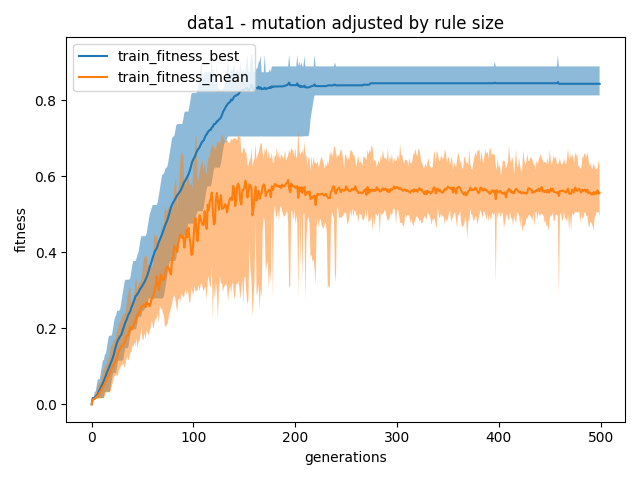
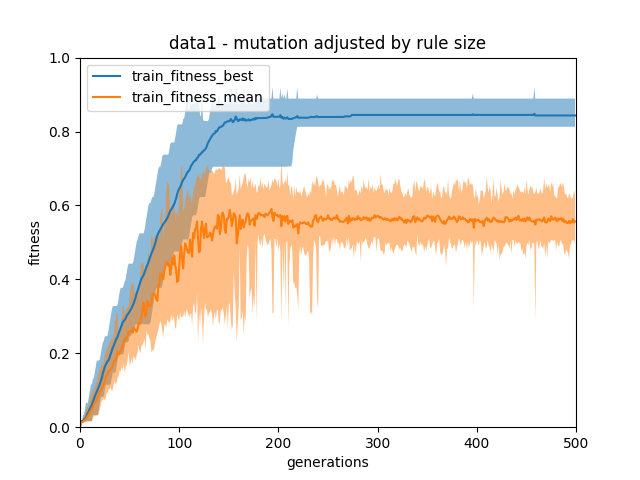
Standardise graph scales

diff --git a/biocomp/grapher.py b/biocomp/grapher.py
@@ -89,6 +89,9 @@ def plot_fitness_area(generation_count, logs, key, line_args=None, fill_args=Non
         linewidth=0,
         **fill_args,
     )
+    axes = plt.gca()
+    axes.set_ylim([0, 1])
+    axes.set_xlim([0, generation_count])
 
 
 def plot_logfile(logs, keys):
@@ -290,24 +293,18 @@ def main():
         ]),
     }
 
-    plot_logfile(experiments['dynamic_mutation'], ['train_fitness_best', 'train_fitness_mean'])
-    plt.title('data1 - mutation adjusted by rule size')
-    plt.show()
-    plot_logfile(experiments['static_mutation'], ['train_fitness_best', 'train_fitness_mean'])
-    plt.title('data1 - fixed mutation rate (0.003)')
-    plt.show()
-    plot_logfile(experiments['roulette_wheel_selection'], ['train_fitness_best', 'train_fitness_mean'])
-    plt.title('data1 - roulette wheel selection')
-    plt.show()
-    plot_logfile(experiments['boosted_mutation'], ['train_fitness_best', 'train_fitness_mean'])
-    plt.title('data1 - boosted mutation rate (0.01)')
-    plt.show()
-    plot_logfile(experiments['decreased_crossover'], ['train_fitness_best', 'train_fitness_mean'])
-    plt.title('data1 - decreased crossover rate 85% -> 50%')
-    plt.show()
-    plot_logfile(experiments['half_population_size'], ['train_fitness_best', 'train_fitness_mean'])
-    plt.title('data1 - half population size 100 -> 50')
-    plt.show()
+    for name, description in {
+        'dynamic_mutation': 'data1 - mutation adjusted by rule size',
+        'static_mutation': 'data1 - fixed mutation rate (0.003)',
+        'roulette_wheel_selection': 'data1 - roulette wheel selection',
+        'boosted_mutation': 'data1 - boosted mutation rate (0.01)',
+        'decreased_crossover': 'data1 - decreased crossover rate 85% -> 50%',
+        'half_population_size': 'data1 - half population size 100 -> 50',
+    }.items():
+        plot_logfile(experiments[name], ['train_fitness_best', 'train_fitness_mean'])
+        plt.title(description)
+        plt.savefig(f'graphs/{name}.png')
+        plt.show()
 
 
 if __name__ == '__main__':
